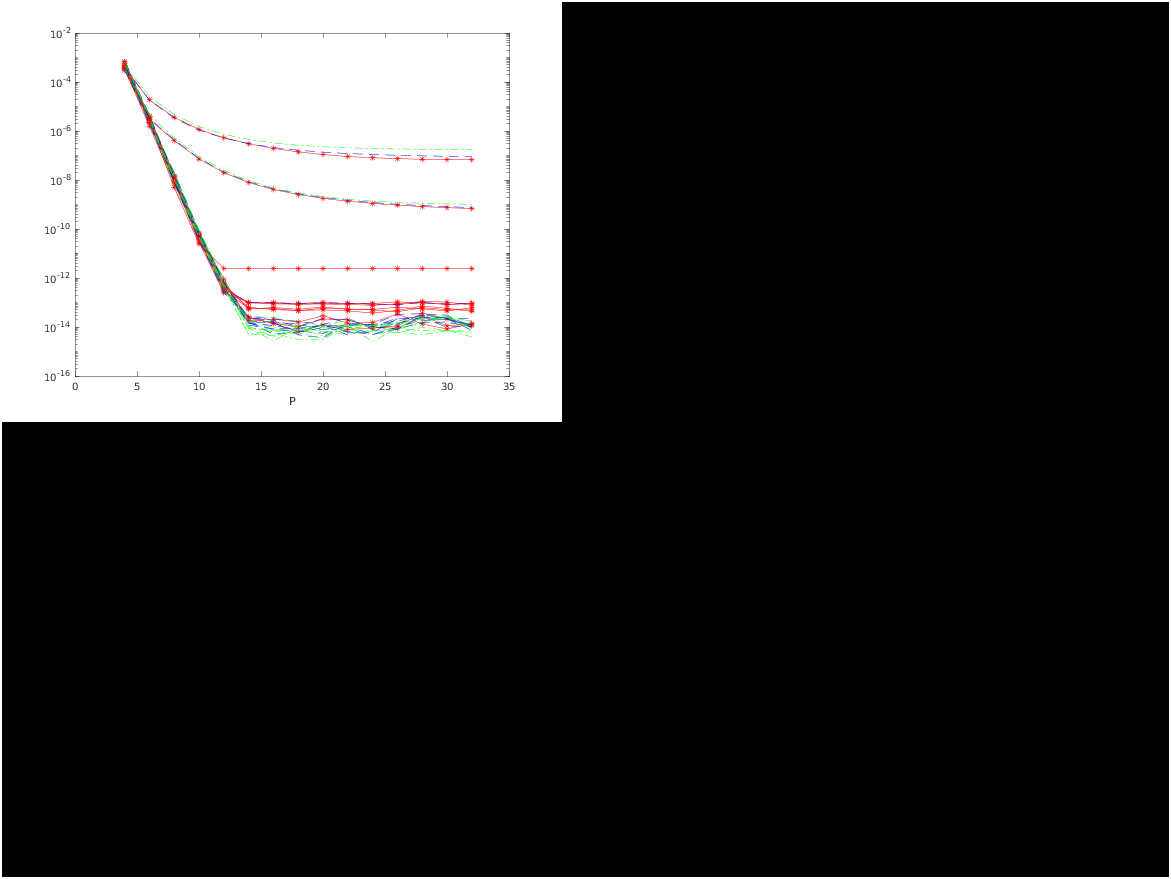
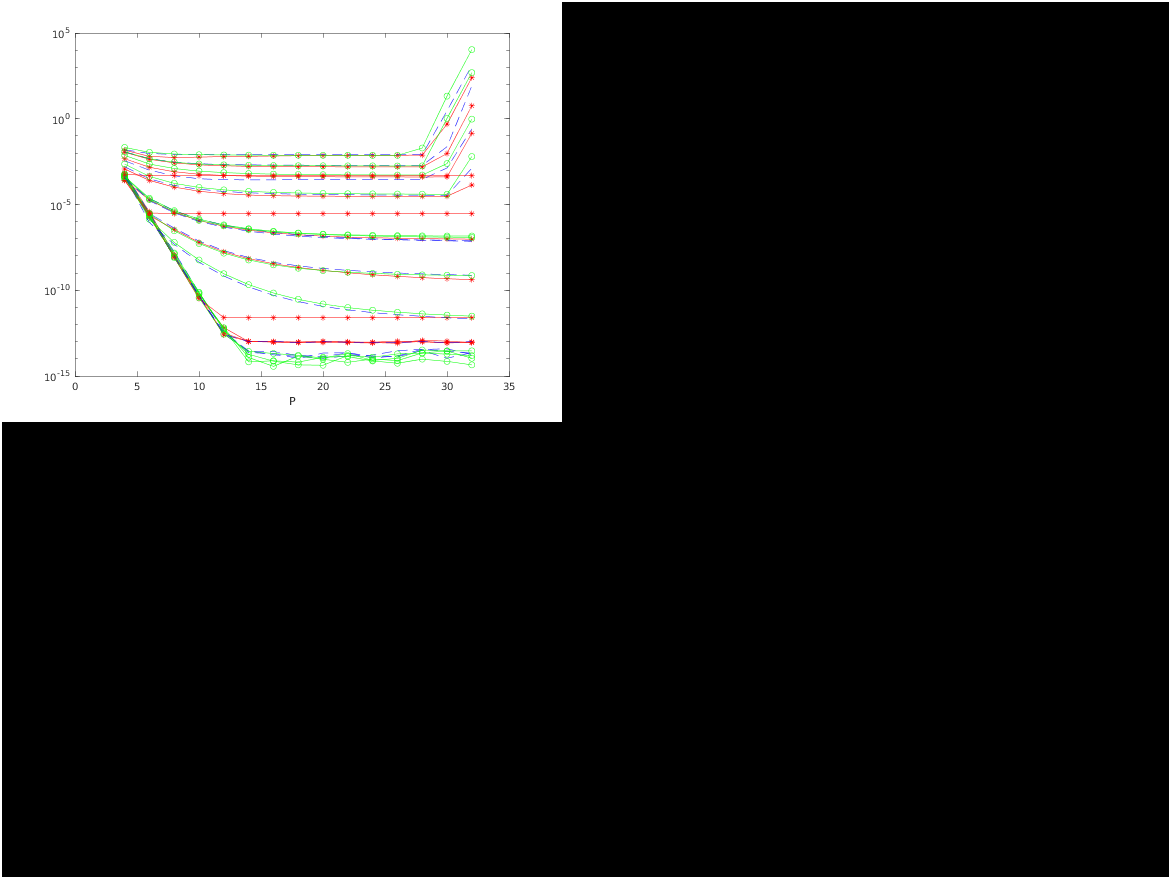
imgs

diff --git a/SE_Stokes_run/SE3P_Stokes/xiLM_balance.m b/SE_Stokes_run/SE3P_Stokes/xiLM_balance.m
@@ -42,7 +42,7 @@ str = {};
 est = @(M,xi,L,f) sqrt(f)*(xi^3*L^2/(pi^4*(M/2)^(3/2)))*exp(-(pi*(M/2)/(xi*L))^2);
 e_vec = [];
 
-xx = [5,8,10,20];
+xx = [10,20,30,40];
 LL = [2,1,0.5];
 for xi = xx
     opt.xi = xi;
@@ -67,7 +67,7 @@ ED_opt.box = [L,L,L];
             elseif(L==LL(2))
                 semilogy(PP,rms_err,'--b')
             elseif(L==LL(3))
-                semilogy(PP,rms_err,'-.g')
+                semilogy(PP,rms_err,'-og')
             end
             hold on
             str = [str strcat('M = ',num2str(M))];

diff --git a/SE_Stokes_run/SE3P_Stokes/amp_param.m b/SE_Stokes_run/SE3P_Stokes/amp_param.m
@@ -31,7 +31,7 @@ for L = LL
     end
 end
 plot(1:length(MA),MA,'*')
-axis([0,200,0,1]);
+axis([0,200,0.2,0.5]);
 exportgraphics(gcf,'error_amp.png');
 fclose(fileid);
 %disp(MA)
